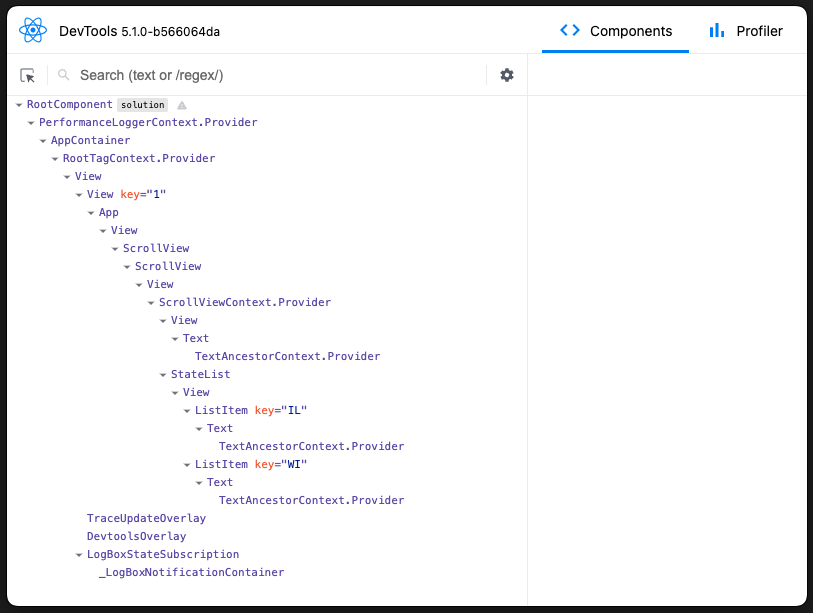
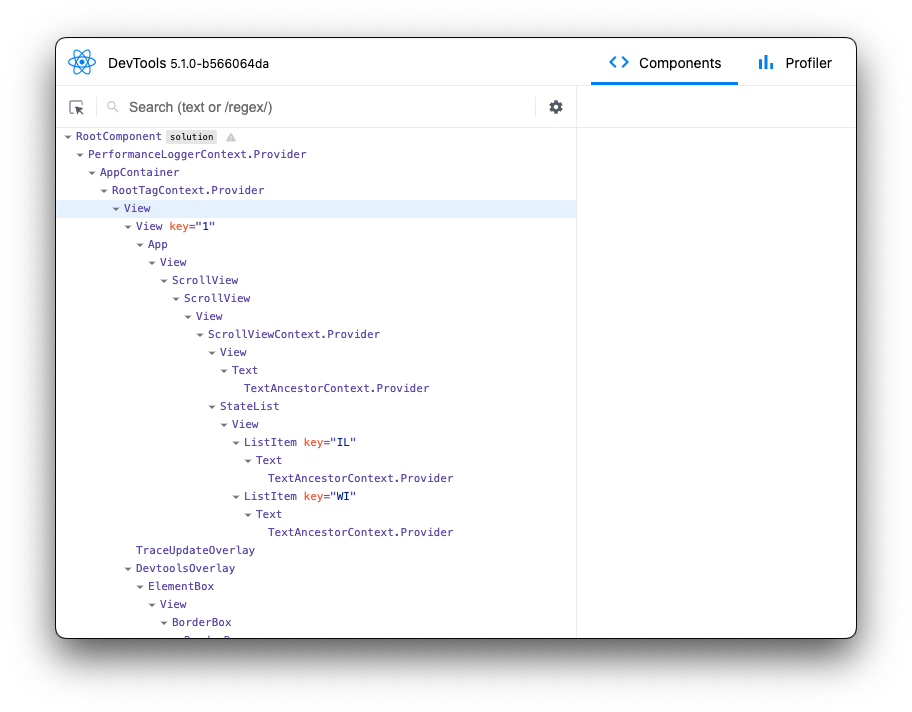
Update break down for dev tools lesson, and PR request update

Changed region(s): [[0.0, 0.0, 1.0, 1.0], [0.2768, 0.8059, 0.492, 0.8369]]

diff --git a/src/react-native/07-debugging-devtools/debugging-devtools.md b/src/react-native/07-debugging-devtools/debugging-devtools.md
@@ -12,37 +12,67 @@ In this section, you will:
 
 - [resource](https://reactnative.dev/docs/debugging)
 
-## Objective: Devtools setup
+## Objective 1: React DevTools
 
-We will be setting up dev tools to help us debug and inspect the UI:
+We will be setting up React DevTools to help us inspect the UI:
 
-**React Native Debugger**
+**React DevTools**
 
-<img alt="Screenshot of react native debugger." src="../../static/img/react-native/07-debugging-devtools/react-native-debugger
-.png"/>
-
-**React Devtool**
-
-<img alt="Screenshot of a connected dev tool." src="../../static/img/react-native/07-debugging-devtools/dev-tool-connected.png"/>
+<img alt="Screenshot of React DevTools inspecting a component tree. It shows a structured hierarchy of all the components in the view. There is also a Profiler tab." src="../../static/img/react-native/07-debugging-devtools/dev-tool-connected.png" style="max-width: 100%;"/>
 
 ### Concept TODO
 TODO
 
-### Setup
+### Setup 1
+
+✏ Run:
+
+```shell
+npm install react-devtools
+```
 
 ✏ Update **src/package.json** to be:
 
 @diff ../../../exercises/react-native/06-custom-components/03-solution/package.json ../../../exercises/react-native/07-debugging/01-solution/package.json only
 
-Since we have a new package let's run the following command.
+### Verify 1
+
+While the application is running execute the command:
 
 ```shell
-npm i
+npm run devtools
 ```
 
-### Verify
+This should open a separate window that looks like the following image:
 
-**Verifying React Native Debugger**
+<img alt="Screenshot of a window with options for React Native and React DOM. The React Native section suggests opening the in-app developer menu. A notification at the top states the server is waiting for React to connect." src="../../static/img/react-native/07-debugging-devtools/dev-tool-not-connected.png" style="max-width: 100%;"/>
+
+At this point, the DevTool is not connected. To connect the DevTool to the application, run the following command to pull up the dev menu:
+
+```shell
+adb shell input keyevent 82
+```
+
+This will refresh the connection. 
+
+## Objective 2: React Native Debugger
+
+We will be setting up React Native Debugger to help us debug:
+
+**React Native Debugger**
+
+<img alt="Screenshot of the React Native JavaScript Inspector interface. It includes common DevTools tabs such as Console, Sources, Memory, and Profiler." src="../../static/img/react-native/07-debugging-devtools/react-native-debugger.png" style="max-width: 100%;"/>
+
+### Concept TODO
+TODO
+
+### Setup 2
+
+✏ Update **src/package.json** to be:
+
+@diff ../../../exercises/react-native/07-debugging/01-solution/package.json ../../../exercises/react-native/07-debugging/02-solution/package.json only
+
+### Verify 2
 
 Execute the command:
 
@@ -58,29 +88,9 @@ adb shell input keyevent 82
 
 This will open up the dev menu. It should look like the following image:
 
-<img alt="Screenshot of a connected dev tool." src="../../static/img/react-native/07-debugging-devtools/in-app-dev-menu.png" style="max-height: 750px; border: 4px solid black; border-radius: 25px;"/>
+<img alt="Screenshot of the emulator displaying the React Native Developer Menu. The screen lists various options like Reload, Open Debugger, Change Bundle Location, Show Element Inspector, Disable Fast Refresh, Show Perf Monitor, Settings, and Enable Sampling Profiler." src="../../static/img/react-native/07-debugging-devtools/in-app-dev-menu.png" style="max-height: 750px; border: 4px solid black; border-radius: 25px;"/>
 
 Clicking on `Open Debugger` will open up a separate window for debugging.
-
-**Verifying React Devtool**
-
-While the application is running execute the command:
-
-```shell
-npm run devtools
-```
-
-This should open a separate window that looks like the following image:
-
-<img alt="Screenshot of a connected dev tool." src="../../static/img/react-native/07-debugging-devtools/dev-tool-not-connected.png"/>
-
-At this point, the dev tool is not connected. To connect the dev tool to the application, run the following command to pull up the dev menu:
-
-```shell
-adb shell input keyevent 82
-```
-
-This will refresh the connection. 
 
 ## Next steps
 
